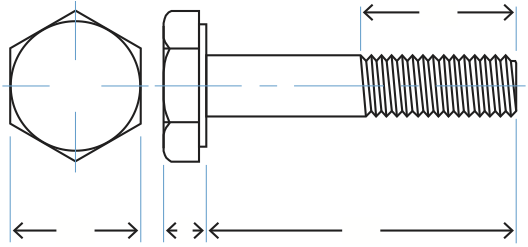
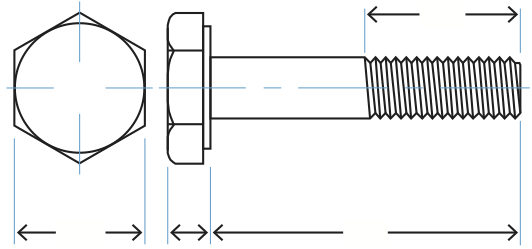
update dimension samples

diff --git a/index.html b/index.html
@@ -122,13 +122,12 @@
             <p class="measurement" data-x="77%" data-y="6%" title="Thread Length">Thread Length</p>
             <p class="measurement" data-x="63%" data-y="75%" title="Length Extras"><a href="#bolt-length" data-rel="popup">+ Grip + Washers</a></p>
             <p class="measurement" data-x="63%" data-y="92%" title="Base Length">Bolt Length</p>
-            <p class="measurement" data-x="94%" data-y="54%" title="Spline Length">Spline Length</p>
           </div>
         </li>
         <li id="nut-diagram">
           <img src="images/dimensions/nut-sample.png">
-          <p class="measurement" data-x="18%" data-y="78%" title="Height">H</p>
-          <p class="measurement" data-x="72%" data-y="78%" title="Width Across Flats">W</p>
+          <p class="measurement" data-x="24%" data-y="81%" title="Height">H</p>
+          <p class="measurement" data-x="69%" data-y="92%" title="Width Across Flats">W</p>
         </li>
         <li id="round-washer-diagram">
           <img src="images/dimensions/washer-round-sample.png">
@@ -136,14 +135,14 @@
           <p class="measurement" data-x="5%" data-y="51%" title="Inside Diameter">I.D.</p>
           <p class="measurement" data-x="66%" data-y="95%" title="Min Thickness">T</p>
           <p class="measurement" data-x="67%" data-y="6%" title="Max Thickness">T</p>
-          <p class="measurement" data-x="32%" data-y="10%" title="Min Edge Distance">E</p>
+          <p class="measurement" data-x="16%" data-y="11%" title="Min Edge Distance">E</p>
         </li>
         <li id="square-washer-diagram">
           <img src="images/dimensions/washer-square-sample.png">
           <p class="measurement" data-x="41%" data-y="91%" title="Min Side Dimension">A</p>
-          <p class="vertical measurement" data-x="77%" data-y="43%" title="Min Side Dimension">A</p>
+          <p class="vertical measurement" data-x="78%" data-y="43%" title="Min Side Dimension">A</p>
           <p class="measurement" data-x="72%" data-y="92%" title="Mean Thickness">T</p>
-          <p class="measurement" data-x="95%" data-y="61%" title="Taper In Thickness"></p>
+          <p class="measurement" data-x="94%" data-y="55%" title="Taper In Thickness"></p>
           <p class="measurement" data-x="59%" data-y="57%" title="Min Edge Distance">E</p>
           <p class="measurement" data-x="k%" data-y="43%" title="Inside Diameter">I.D.</p>
         </li>
